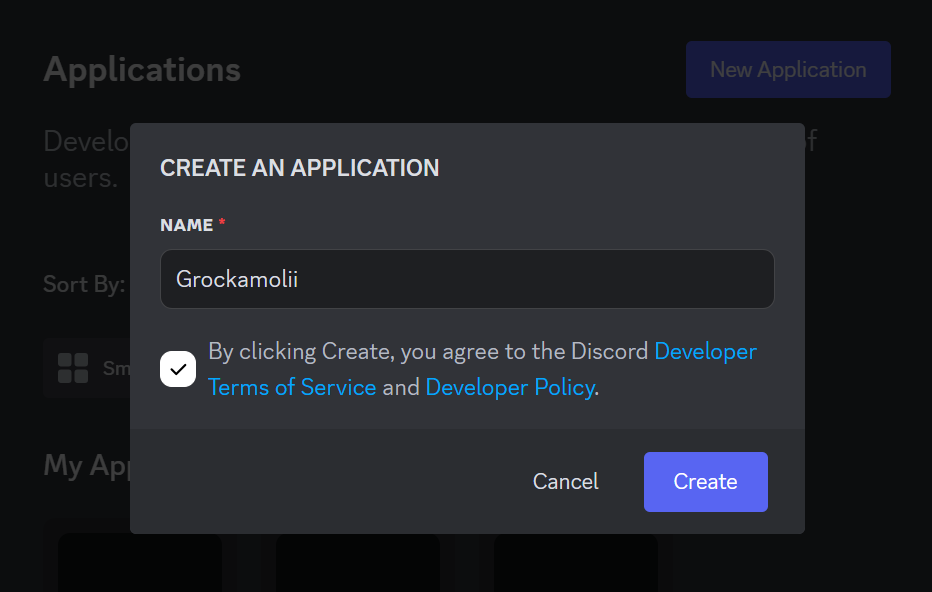
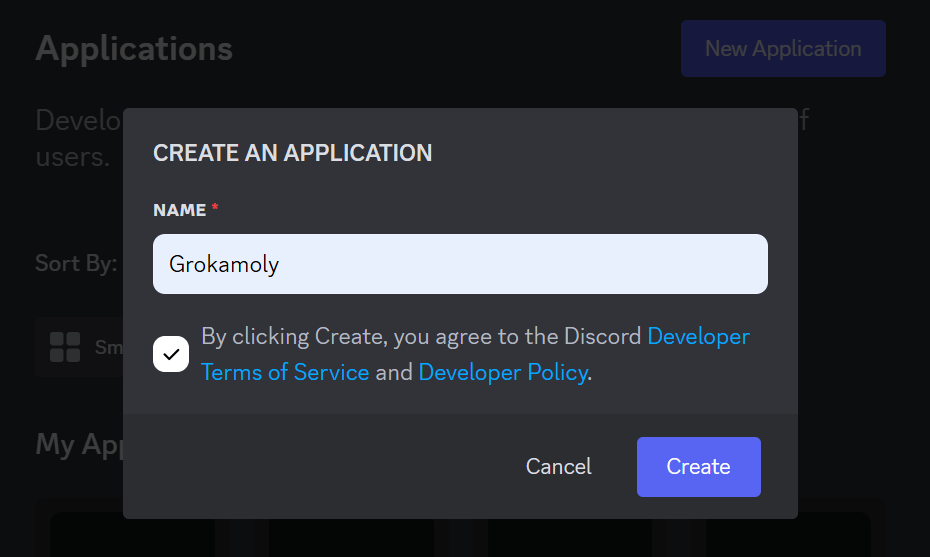
proegressing task2

Changed region(s): [[0.0312, 0.0305, 0.9667, 0.9461], [0.0312, 0.061, 0.2495, 0.1526], [0.5613, 0.7935, 0.6548, 0.8546]]

diff --git a/docs/taskTwo.md b/docs/taskTwo.md
@@ -1,99 +1,110 @@
 # Setting Up Discord Bot With a Server
 
-**_In this section, We will learn how to invte your Discord bot into your server of choice and test if your Discord bot is operational_**
-
+**_In this section, we will learn how to invite your Discord bot into your server of choice and test if your Discord bot is operational_**
 
 ## Inviting Discord Bot To a Server
 
-1. From current page go to `OAUTH2` page from the left-side bar
+1\. From current page go to `OAUTH2` page from the left-side bar
 
-    ![Image](./assets/tasktwo/tasktwo_p1.png "Authio")
+<div style="text-align: center;">
+    <img src="../assets/tasktwo/tasktwo_p1.png" alt="Authio">
+</div>
 
-2. Locate `OAuth2 URL generator` within the page `OAUTH2`
+2\. Under 'OAuth2 URL Generator' check the `bot` option
 
-3. Select the `bot` option from `OAuth2 URL generator`
+   <div style="text-align: center;">
+      <img src="../assets/tasktwo/tasktwo_p2.png" alt="Discord Bot Authio URL generator">
+   </div>
 
-    ![Image](./assets/tasktwo/tasktwo_p2.png "Discord Bot Authio URL generator")
+3\. Moving to 'BOT PERMISSIONS' check the `Administrator` option
 
-4. Select any permission related to what you want your bot to do but for demo we will select `Administrator`
+   <div style="text-align: center;">
+      <img src="../assets/tasktwo/tasktwo_p3.png" alt="Discord Bot Permission">
+   </div>
 
-    ![Image](./assets/tasktwo/tasktwo_p3.png "Discord Bot Permission")
+4\. Find your generated URL for your bot and copy it
 
-5. Find your generated URL for your bot and copy it
+   <div style="text-align: center;">
+      <img src="../assets/tasktwo/tasktwo_p4.png" alt="Bots Join Link">
+   </div>
 
-    ![Image](./assets/tasktwo/tasktwo_p4.png "Bots Join Link")
+5\. Paste into you prefer browser.
 
-6. Paste into you prefer browser.
+6\. After loading the page, it will open discord a prompt you to select your personal server of choice
 
-7. After loading the page, it will open discord a prompt you to select your personal server of choice
+   <div style="text-align: center;">
+      <img src="../assets/tasktwo/tasktwo_p5.png" alt="Join server">
+   </div>
 
-    ![Image](./assets/tasktwo/tasktwo_p5.png "Join server")
+7\. After select the your server, yourl bot will now appear in the server member list as offline
 
-8. After select the your server, yourl bot will now appear in the server member list as offline
-
-    ![Image](./assets/tasktwo/tasktwo_p6.png "Server Member List")
-
+   <div style="text-align: center;">
+      <img src="../assets/tasktwo/tasktwo_p6.png" alt="Server Member List">
+   </div>
 !!! success "Joined the server"
-    Your Discord bot should now be visable in your selected server
-
+Your Discord bot should now be visable in your selected server
 
 ## Testing Your Discord Bot Works in Server
 
-1. Make a `Python` file in VSCode
+The following steps will all be inside one file
 
-2. Setup up important package for `Python`
+### Steps:
 
-    ```
-    import discord
-    from discord.ext import commands
-    ```
+1\. Make a `python.py` file in VSCode
 
-3. Initialize prefix for command in Discord server
+2\. Inside `python.py`, copy and paste the following code to set up important packages for our code
 
-    ``` 
-    bot = commands.Bot(command_prefix='!', intents=discord.Intents.all())
-    ```
+```python
+import discord
+from discord.ext import commands
+```
 
-4. Add a code the displays a ready msg from the Discord bot in the terminal
+3\. Initialize prefix for command in Discord server
 
-    ```
-    @bot.event
-    async def on_ready():
-        print(f'Logged in as {bot.user.name} ({bot.user.id})')
-        print('------')
-    ```
+```py
+bot = commands.Bot(command_prefix='!', intents=discord.Intents.all())
+```
 
-5. Implement a simple command program when your Discord bot will reply with `Pong!`
+4\. Add a code the displays a ready msg from the Discord bot in the terminal
 
-    ```
-    @bot.command()
-    async def ping(ctx):
-    await ctx.send('Pong!')
-    ```
+```py
+@bot.event
+async def on_ready():
+    print(f'Logged in as {bot.user.name} ({bot.user.id})')
+    print('------')
+```
 
-6. Implement a simple program that will reply to the user with a `Hello, @user` and ping to. 
+5\. Implement a simple command program when your Discord bot will reply with `Pong!`
 
-    ```
-    @bot.command()
-    async def hello(ctx):
-    await ctx.send(f'Hello, {ctx.author.mention}!')
-    ```
+```py
+@bot.command()
+async def ping(ctx):
+await ctx.send('Pong!')
+```
 
-7. Replace `YOUR_TOKEN_HERE` with your Discord bot's token to allow the bot to connect to discord server API
+6\. Implement a simple program that will reply to the user with a `Hello, @user` and ping to.
 
-    ```
-    bot.run('YOUR_TOKEN_HERE')
-    ```
+```py
+@bot.command()
+async def hello(ctx):
+await ctx.send(f'Hello, {ctx.author.mention}!')
+```
 
-    !!! warning "If token is invalid"
-        The program crash on compile
+7\. Replace `YOUR_TOKEN_HERE` with your Discord bot's token to allow the bot to connect to discord server API
 
-8. When you test it the result should look similar to this below:
+```py
+bot.run('YOUR_TOKEN_HERE')
+```
 
-    ![gif](./assets/tasktwo/Discord_bot_test.gif "Test Results")
+!!! warning "If token is invalid"
+The program crash on compile
+
+8\. When you test it the result should look similar to this below:
+
+![gif](./assets/tasktwo/Discord_bot_test.gif 'Test Results')
 
 !!! success "Discord Bot's responds"
-    Now your Discord bot will respond to certain commands
+Now your Discord bot will respond to certain commands
 
 ## Conclusion
 
@@ -102,4 +113,3 @@ By the end of this section, you will successfully learned the following:
 - [x] How to invite a Discord Bot to your server
 
 - [x] How to test basic programs with you Discord Bot
-

diff --git a/docs/taskOne.md b/docs/taskOne.md
@@ -20,7 +20,7 @@
     <img src="../assets/taskone/newApplication.png" alt="Discord Bot Tab" width="500" height="400">
 </div>
 
-3\. When promted by a name, enter the name of your bot. For our example we will call it Grockamolii.
+3\. When promted by a name, enter the name of your bot. For our example we will call it Grokamoly.
 
 4\. Accept the terms and coniditons
 
@@ -74,12 +74,13 @@ We've just changed our intention for our bot and it needs to be updated to let D
 <br>
 
 <div style="text-align: center;">
-<img src="../assets/taskone/token.png" alt="Discord Bot" width="600">
+    <img src="../assets/taskone/token.png" alt="Discord Bot" width="600">
 </div>
 
 ### Steps:
 
 1. Click on the 'Reset Token'
+
 2. Now save your token to update Discord of your changes
 
 !!! warning "Protect Your Token!"
@@ -102,13 +103,13 @@ Next lets set up our work station for coding our bot using VSCode.
 
 ### Steps:
 
-1. Create a folder on your desktop or your desired location and name it 'reminderBot'
+1. Create a folder on your desktop or your desired location and name it `reminderBot`
 
 1. Open VSCode
 
-1. Click on 'files' in the top left corner, naviagte to 'Open Folder', and browse to the folder you've just created. Then open it
+1. Click on 'files' in the top left corner, naviagte to 'Open Folder', and browse till you find our folder `reminderBot`. Then open it
 
-1. To install the Python extension click onf the extention icon on the left tab or use command `ctrl + shift + x`
+1. To install the Python extension click on the extention icon on the left tab or use command `ctrl + shift + x`
 
 ??? info "Python Extention"
 
